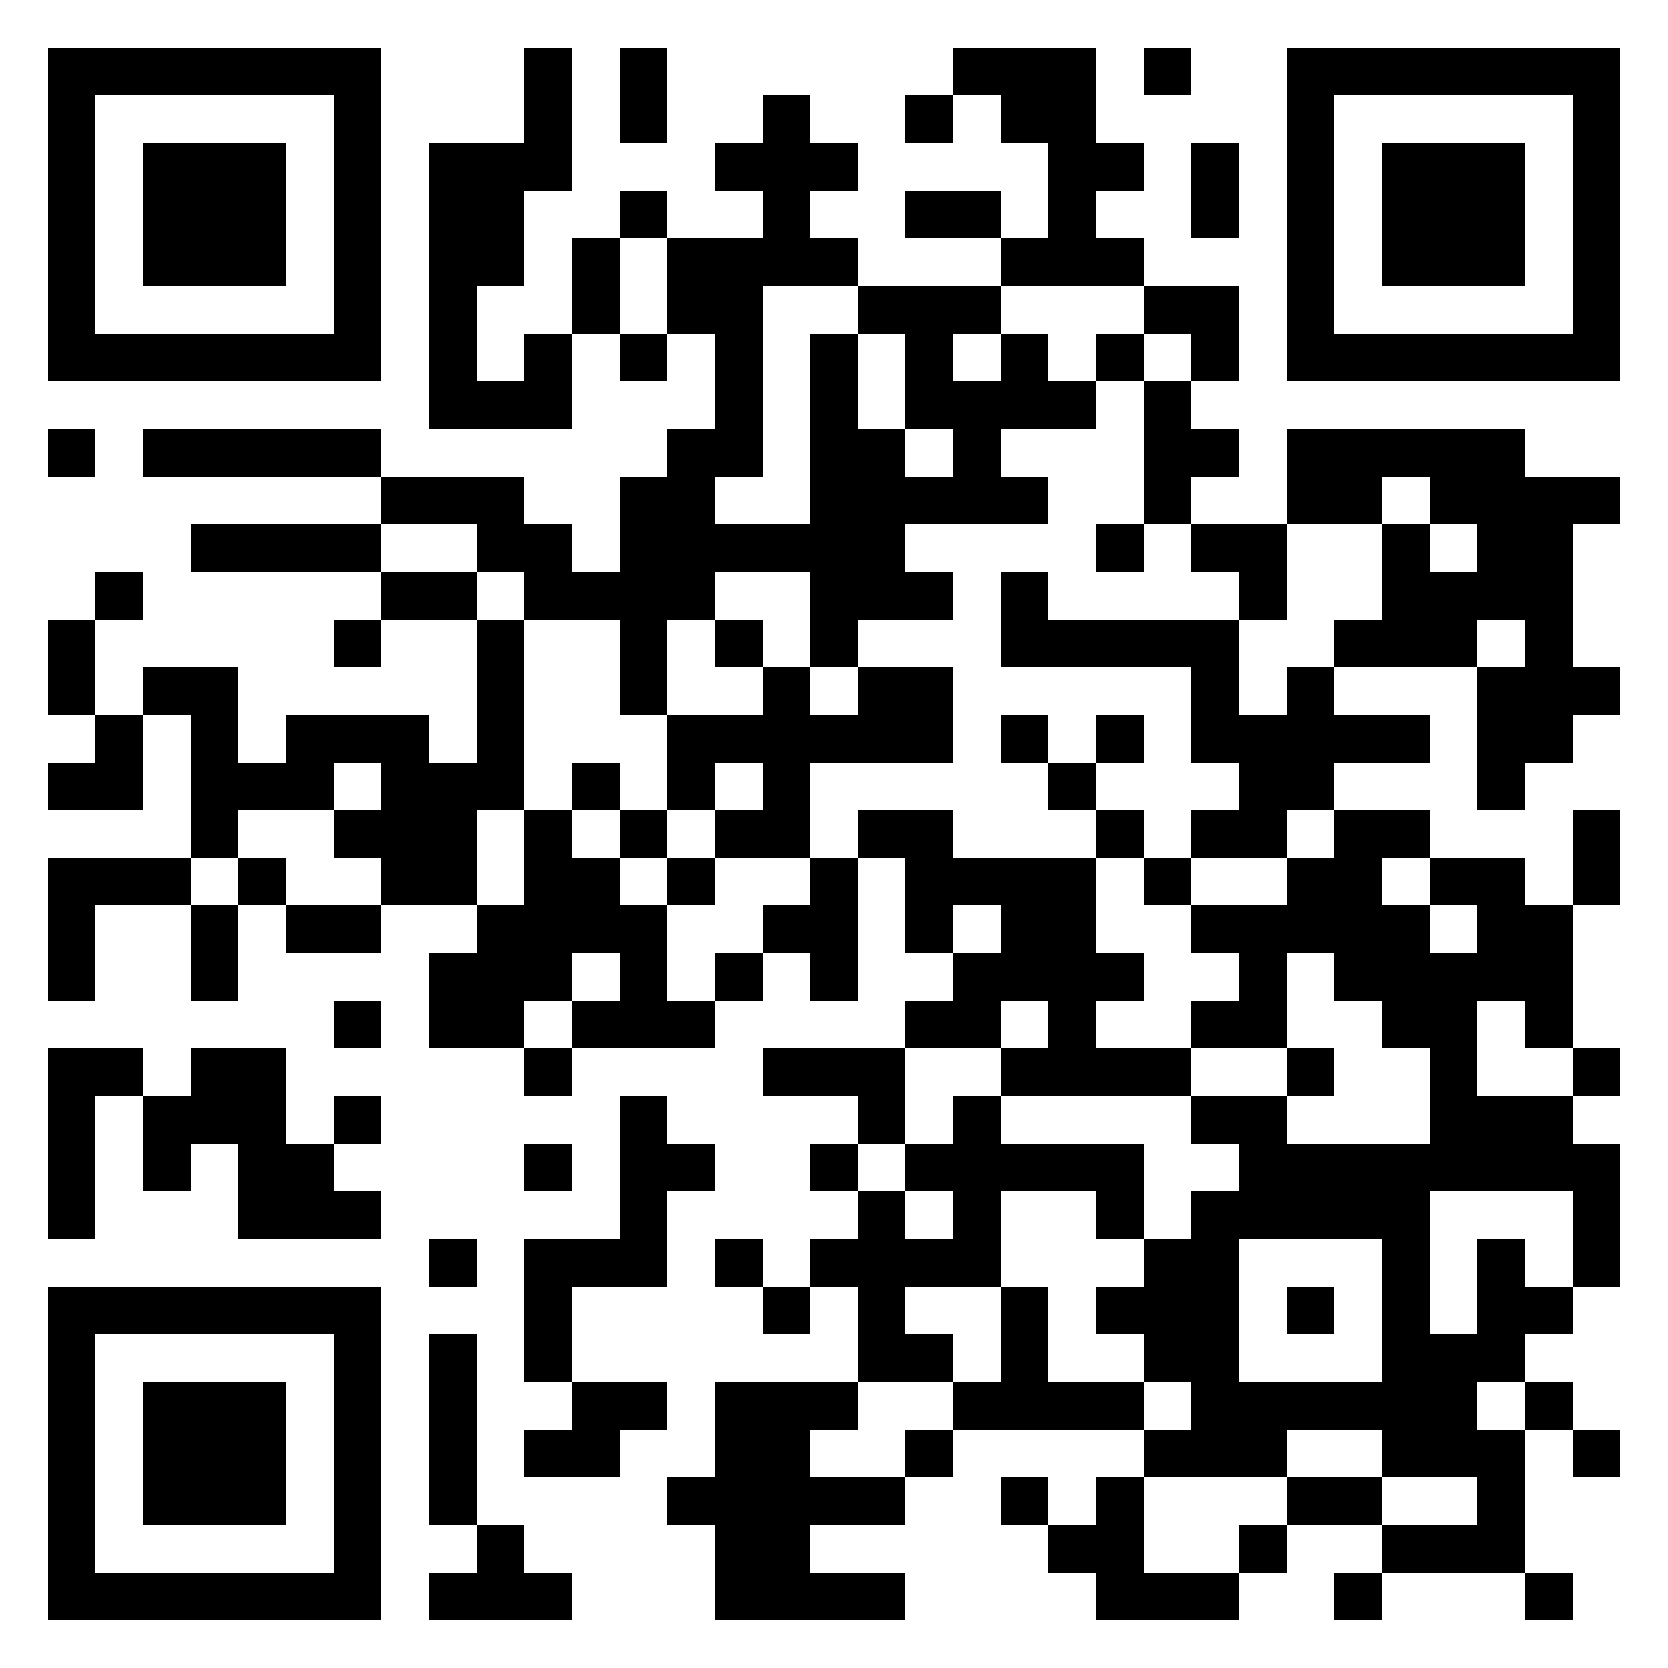
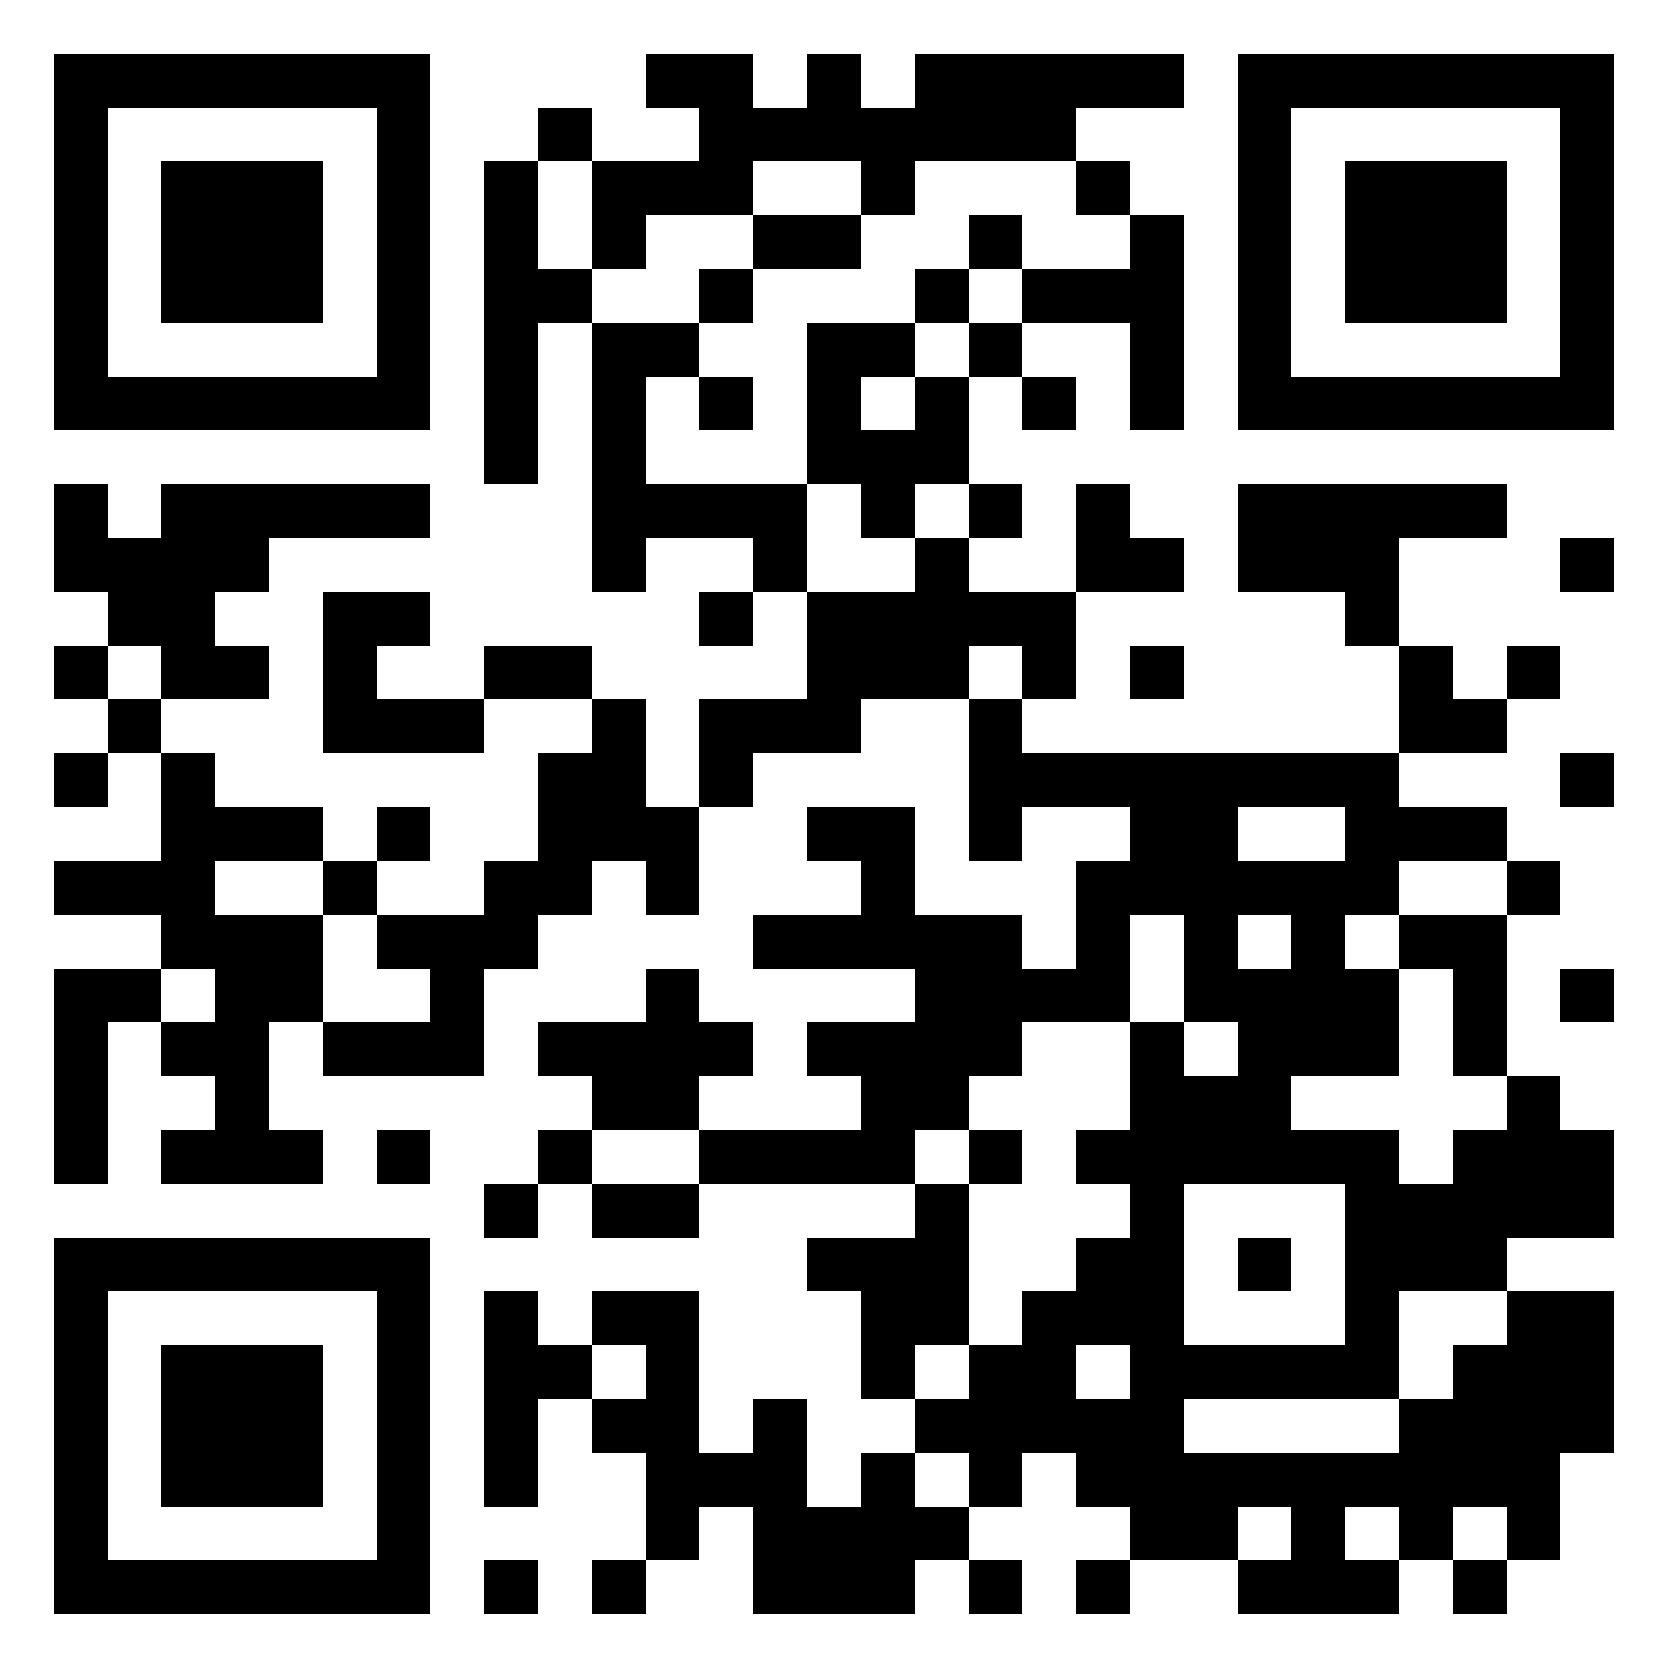
Fix repository link

diff --git a/src/presentations/DeepDiveDomainDrivenDesign/DeepDiveDomainDrivenDesign.tsx b/src/presentations/DeepDiveDomainDrivenDesign/DeepDiveDomainDrivenDesign.tsx
@@ -511,8 +511,8 @@ export const DeepDiveDomainDrivenDesign = ({scroll}: PresentationProps) => (
         </li>
         <li>
           <b>Example code</b>&nbsp;
-          <a href={"https://gitlab.com/dirk.groot/deep-dive-ddd"}>
-            https://gitlab.com/dirk.groot/deep-dive-ddd
+          <a href={"https://github.com/dirkgroot/deep-dive-ddd"}>
+            https://github.com/dirkgroot/deep-dive-ddd
           </a><br/>
           <img src={gitlab_link_qr} alt={"GitLab link QR code"} width="300px" height="300px"/>
         </li>
